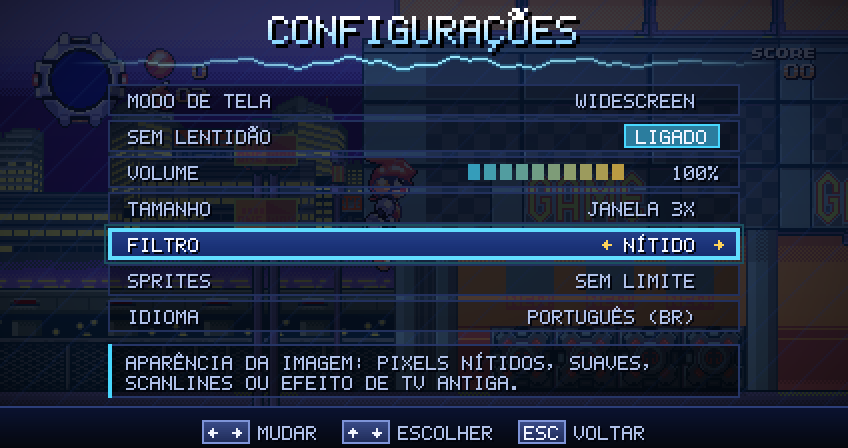
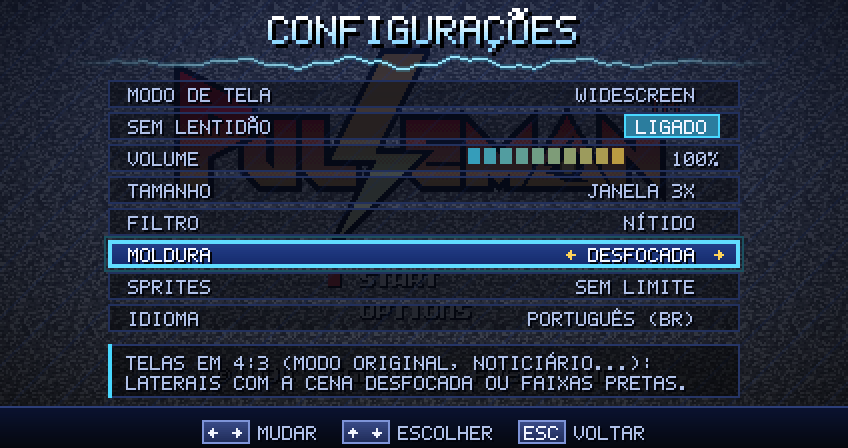
Moldura desfocada nas telas em 4:3
- Telas em 4:3 ganham laterais com a própria cena ampliada, desfocada e escurecida:
  cutscenes ($28, $30), telas fora de fase com as colunas extras de uma cor só
  (mapa-múndi, seleção de fases, opções, abertura) e o modo original inteiro
  (424 px com os 320 px do original no meio)
- Menu MOLDURA (desfocada/preta, moldura_preta no .ini); preta mantém o
  comportamento anterior
- Instalador 1.3

diff --git a/runtime/menu.c b/runtime/menu.c
@@ -15,9 +15,9 @@
 /* Widescreen é o padrão; o modo original (320 px) fica no menu. O lockstep compara com o
  * jogo original, então lá o padrão é o modo original. */
 #ifdef PM_LOCKSTEP
-Settings settings = {0, 1, 10, 1, 0, 1, LANG_PT};
+Settings settings = {0, 1, 10, 1, 0, 1, LANG_PT, 0};
 #else
-Settings settings = {1, 1, 10, 1, 0, 1, LANG_PT};
+Settings settings = {1, 1, 10, 1, 0, 1, LANG_PT, 0};
 #endif
 
 /* ---------- configurações ---------- */
@@ -51,6 +51,7 @@ int settings_load(const char *path)
         else if (!strcmp(key, "filtro")) settings.filter = clampi(v, 0, FILTER_COUNT - 1);
         else if (!strcmp(key, "sprites_sem_limite")) settings.no_sprite_limit = !!v;
         else if (!strcmp(key, "idioma")) settings.language = clampi(v, 0, LANG_COUNT - 1);
+        else if (!strcmp(key, "moldura_preta")) settings.black_border = !!v;
     }
     return 1;
 }
@@ -71,9 +72,11 @@ int settings_save(const char *path)
         "# 1 = sem o limite de 20 sprites por linha (menos sprites piscando/sumindo)\n"
         "sprites_sem_limite = %d\n"
         "# idioma dos menus: 0 = português, 1 = english, 2 = español\n"
-        "idioma = %d\n",
+        "idioma = %d\n"
+        "# telas em 4:3 no widescreen: 0 = moldura desfocada, 1 = faixas pretas\n"
+        "moldura_preta = %d\n",
         !settings.widescreen, settings.no_slowdown, settings.volume, settings.display,
-        settings.filter, settings.no_sprite_limit, settings.language);
+        settings.filter, settings.no_sprite_limit, settings.language, settings.black_border);
     SDL_RWops *f = SDL_RWFromFile(path, "wb");
     if (!f)
         return 0;
@@ -253,7 +256,7 @@ static void fill(int x, int y, int w, int h, uint32_t color)
 /* Página principal (pausa, ou OPTIONS no título) */
 enum { IT_CONTINUE, IT_GAME_OPTIONS, IT_SAVE, IT_LOAD, IT_SETTINGS, IT_RESET, IT_QUIT, IT_COUNT };
 /* Página "Configurações" */
-enum { SET_WIDE, SET_SLOW, SET_VOLUME, SET_DISPLAY, SET_FILTER, SET_SPRITES, SET_LANGUAGE, SET_COUNT };
+enum { SET_WIDE, SET_SLOW, SET_VOLUME, SET_DISPLAY, SET_FILTER, SET_BORDER, SET_SPRITES, SET_LANGUAGE, SET_COUNT };
 
 /* Texto no idioma escolhido: T("português", "english", "español") */
 #define T(pt, en, es) (settings.language == LANG_EN ? (en) : settings.language == LANG_ES ? (es) : (pt))
@@ -480,6 +483,7 @@ static const char *set_label(int i)
     case SET_VOLUME: return T("VOLUME", "VOLUME", "VOLUMEN");
     case SET_DISPLAY: return T("TAMANHO", "SIZE", "TAMAÑO");
     case SET_FILTER: return T("FILTRO", "FILTER", "FILTRO");
+    case SET_BORDER: return T("MOLDURA", "BORDER", "MARCO");
     case SET_SPRITES: return "SPRITES";
     default: return T("IDIOMA", "LANGUAGE", "IDIOMA");
     }
@@ -505,6 +509,10 @@ static const char *set_help(int i)
         return T("APARÊNCIA DA IMAGEM: PIXELS NÍTIDOS, SUAVES, SCANLINES OU EFEITO DE TV ANTIGA.",
                  "IMAGE LOOK: SHARP OR SMOOTH PIXELS, SCANLINES OR AN OLD TV EFFECT.",
                  "ASPECTO DE LA IMAGEN: PÍXELES NÍTIDOS, SUAVES, SCANLINES O EFECTO DE TV ANTIGUA.");
+    case SET_BORDER:
+        return T("TELAS EM 4:3 (MODO ORIGINAL, NOTICIÁRIO...): LATERAIS COM A CENA DESFOCADA OU FAIXAS PRETAS.",
+                 "4:3 SCREENS (ORIGINAL MODE, THE NEWS...): SIDES WITH THE SCENE BLURRED OR BLACK BARS.",
+                 "PANTALLAS EN 4:3 (MODO ORIGINAL, NOTICIERO...): LATERALES CON LA ESCENA DIFUMINADA O FRANJAS NEGRAS.");
     case SET_SPRITES:
         return T("SEM LIMITE EVITA QUE OS SPRITES PISQUEM OU SUMAM QUANDO HÁ MUITOS NA MESMA LINHA.",
                  "NO LIMIT KEEPS SPRITES FROM FLICKERING OR VANISHING WHEN MANY SHARE A LINE.",
@@ -544,6 +552,7 @@ static const char *set_value(int i)
         return settings.display == 0 ? T("JANELA 2X", "WINDOW 2X", "VENTANA 2X") :
                settings.display == 1 ? T("JANELA 3X", "WINDOW 3X", "VENTANA 3X") : T("JANELA 4X", "WINDOW 4X", "VENTANA 4X");
     case SET_FILTER: return filter_label(settings.filter);
+    case SET_BORDER: return settings.black_border ? T("PRETA", "BLACK", "NEGRO") : T("DESFOCADA", "BLURRED", "DIFUMINADO");
     case SET_SPRITES: return settings.no_sprite_limit ? T("SEM LIMITE", "NO LIMIT", "SIN LÍMITE") : "ORIGINAL";
     case SET_LANGUAGE: {   /* cada idioma com o próprio nome */
         static const char *names[LANG_COUNT] = {"PORTUGUÊS (BR)", "ENGLISH", "ESPAÑOL"};
@@ -567,6 +576,7 @@ static int change(int i, int dir)
     }
     case SET_DISPLAY: settings.display = (settings.display + dir + 4) % 4; return 1;
     case SET_FILTER: settings.filter = (settings.filter + dir + FILTER_COUNT) % FILTER_COUNT; return 1;
+    case SET_BORDER: settings.black_border = !settings.black_border; return 1;
     case SET_SPRITES: settings.no_sprite_limit = !settings.no_sprite_limit; return 1;
     case SET_LANGUAGE: settings.language = (settings.language + dir + LANG_COUNT) % LANG_COUNT; return 1;
     default: return 0;
@@ -1176,18 +1186,18 @@ static void render_settings(int w)
     draw_title((w - text_width(title) * 2) / 2, 4 - rise, title, 0xFFFFFFFFu, 0xFF8FD8FFu);
     pulse_wave(x0 - 20, LAYOUT_W + 40, 31, FS_CYAN);
 
-    const int y0 = 42, row_h = 18;
+    const int y0 = 40, row_h = 16;   /* 8 itens até a descrição em y = 172 */
     for (int i = 0; i < SET_COUNT; i++) {
         int sel = i == set_cursor && !dialog, y = y0 + i * row_h + rise * (i + 2) / 3;
         if (sel) {
-            gradient_rect(x0, y, LAYOUT_W, 16, 0xFF24408Au, 0xFF13286Au);
-            outline(x0 - 2, y - 2, LAYOUT_W + 4, 20, 1, mix(FS_CYAN, 0xFF000000u, 160));
-            outline(x0, y, LAYOUT_W, 16, 2, mix(FS_CYAN, 0xFFFFFFFFu, pulse() / 2));
+            gradient_rect(x0, y, LAYOUT_W, 14, 0xFF24408Au, 0xFF13286Au);
+            outline(x0 - 2, y - 2, LAYOUT_W + 4, 18, 1, mix(FS_CYAN, 0xFF000000u, 160));
+            outline(x0, y, LAYOUT_W, 14, 2, mix(FS_CYAN, 0xFFFFFFFFu, pulse() / 2));
         } else {
-            blend_rect(x0, y, LAYOUT_W, 16, 0xFF000000u, 100);
-            outline(x0, y, LAYOUT_W, 16, 1, mix(FS_EDGE, 0xFF000000u, 60));
+            blend_rect(x0, y, LAYOUT_W, 14, 0xFF000000u, 100);
+            outline(x0, y, LAYOUT_W, 14, 1, mix(FS_EDGE, 0xFF000000u, 60));
         }
-        draw_text_shadow(x0 + 10, y + 3, set_label(i), sel ? FS_TEXT : FS_SOFT);
+        draw_text_shadow(x0 + 10, y + 2, set_label(i), sel ? FS_TEXT : FS_SOFT);
 
         int right = x0 + LAYOUT_W - 10;
         int nudge = sel && (anim / 10) % 2;
@@ -1197,16 +1207,16 @@ static void render_settings(int w)
                 snprintf(v, sizeof(v), "%d%%", settings.volume * 10);
             else
                 snprintf(v, sizeof(v), "%s", T("MUDO", "MUTE", "SILENCIO"));
-            draw_text_shadow(right - text_width(v), y + 3, v, sel ? FS_TEXT : FS_SOFT);
+            draw_text_shadow(right - text_width(v), y + 2, v, sel ? FS_TEXT : FS_SOFT);
             int bx = right - 36 - 10 - 10 * 8;   /* < barra > 100% */
             for (int s = 0; s < 10; s++) {
                 int on = s < settings.volume;
                 uint32_t c = on ? mix(FS_CYAN, FS_GOLD, s * 256 / 9) : 0xFF1A2448u;
-                fill(bx + s * 8, y + 4, 6, 8, sel || !on ? c : mix(c, 0xFF000000u, 70));
+                fill(bx + s * 8, y + 2, 6, 8, sel || !on ? c : mix(c, 0xFF000000u, 70));
             }
             if (sel) {
-                draw_text(bx - 10 - nudge, y + 3, "\x03", FS_GOLD);
-                draw_text(bx + 10 * 8 + 2 + nudge, y + 3, "\x04", FS_GOLD);
+                draw_text(bx - 10 - nudge, y + 2, "\x03", FS_GOLD);
+                draw_text(bx + 10 * 8 + 2 + nudge, y + 2, "\x04", FS_GOLD);
             }
             continue;
         }
@@ -1215,15 +1225,15 @@ static void render_settings(int w)
         if (set_is_toggle(i)) {   /* chave: LIGADO aceso, DESLIGADO apagado */
             int on = settings.no_slowdown;
             int pw2 = vw + 12, pxx = right - pw2;
-            fill(pxx, y + 2, pw2, 12, on ? mix(FS_CYAN, 0xFF0A1530u, 120) : 0xFF141C38u);
-            outline(pxx, y + 2, pw2, 12, 1, on ? FS_CYAN : FS_EDGE);
-            draw_text(pxx + 6, y + 3, v, on ? FS_TEXT : FS_DIM);
+            fill(pxx, y + 1, pw2, 12, on ? mix(FS_CYAN, 0xFF0A1530u, 120) : 0xFF141C38u);
+            outline(pxx, y + 1, pw2, 12, 1, on ? FS_CYAN : FS_EDGE);
+            draw_text(pxx + 6, y + 2, v, on ? FS_TEXT : FS_DIM);
             continue;
         }
-        draw_text_shadow(right - 12 - vw, y + 3, v, sel ? FS_TEXT : FS_SOFT);
+        draw_text_shadow(right - 12 - vw, y + 2, v, sel ? FS_TEXT : FS_SOFT);
         if (sel) {
-            draw_text(right - 12 - vw - 10 - nudge, y + 3, "\x03", FS_GOLD);
-            draw_text(right - 4 + nudge, y + 3, "\x04", FS_GOLD);
+            draw_text(right - 12 - vw - 10 - nudge, y + 2, "\x03", FS_GOLD);
+            draw_text(right - 4 + nudge, y + 2, "\x04", FS_GOLD);
         }
     }
 

diff --git a/runtime/border.c b/runtime/border.c
@@ -1,0 +1,105 @@
+/* Moldura desfocada das telas em 4:3 (ver border.h).
+ *
+ * A imagem do meio (320 px) é reduzida a uma grade de blocos de 8x8 px, desfocada com
+ * duas passadas de média 3x3 e ampliada de novo (bilinear) com zoom, como se a cena
+ * continuasse por trás das laterais. A grade é suavizada entre quadros para a estática
+ * e as trocas de imagem não piscarem na moldura. Só muda o que é mostrado: a emulação,
+ * os jogos salvos e o lockstep não passam por aqui. */
+#include <string.h>
+
+#include "border.h"
+
+#define CELL 8
+#define GW (SCREEN_W_MAX / CELL)
+#define GH (SCREEN_H / CELL)
+#define ZOOM 1.5f      /* a cena por trás aparece maior que a imagem do meio */
+#define DARK 0.42f     /* brilho da moldura */
+#define SHADOW 12      /* px de sombra junto da imagem */
+
+static float grid[GH][GW][3];
+static int have_grid;
+
+void border_reset(void)
+{
+    have_grid = 0;
+}
+
+static void blur(float (*g)[GW][3], int gw, int gh)
+{
+    static float tmp[GH][GW][3];
+    for (int y = 0; y < gh; y++)
+        for (int x = 0; x < gw; x++)
+            for (int c = 0; c < 3; c++) {
+                float s = 0;
+                int n = 0;
+                for (int dy = -1; dy <= 1; dy++)
+                    for (int dx = -1; dx <= 1; dx++) {
+                        int yy = y + dy, xx = x + dx;
+                        if (yy < 0 || yy >= gh || xx < 0 || xx >= gw)
+                            continue;
+                        s += g[yy][xx][c];
+                        n++;
+                    }
+                tmp[y][x][c] = s / n;
+            }
+    memcpy(g, tmp, sizeof(tmp));
+}
+
+void border_draw(uint32_t (*fb)[SCREEN_W_MAX], int width, int extra)
+{
+    int inner = width - 2 * extra;   /* 320 */
+    int gw = inner / CELL, gh = SCREEN_H / CELL;
+    static float cur[GH][GW][3];
+    for (int gy = 0; gy < gh; gy++)
+        for (int gx = 0; gx < gw; gx++) {
+            uint32_t r = 0, g = 0, b = 0;
+            for (int y = gy * CELL; y < gy * CELL + CELL; y++)
+                for (int x = extra + gx * CELL; x < extra + gx * CELL + CELL; x++) {
+                    uint32_t p = fb[y][x];
+                    r += p >> 16 & 0xFF;
+                    g += p >> 8 & 0xFF;
+                    b += p & 0xFF;
+                }
+            cur[gy][gx][0] = r / (float)(CELL * CELL);
+            cur[gy][gx][1] = g / (float)(CELL * CELL);
+            cur[gy][gx][2] = b / (float)(CELL * CELL);
+        }
+    blur(cur, gw, gh);
+    blur(cur, gw, gh);
+    float keep = have_grid ? 0.75f : 0.0f;
+    for (int gy = 0; gy < gh; gy++)
+        for (int gx = 0; gx < gw; gx++)
+            for (int c = 0; c < 3; c++)
+                grid[gy][gx][c] = grid[gy][gx][c] * keep + cur[gy][gx][c] * (1 - keep);
+    have_grid = 1;
+
+    for (int y = 0; y < SCREEN_H; y++) {
+        /* posição na imagem do meio, em blocos (centro do bloco = .5) */
+        float sy = ((SCREEN_H / 2) + (y + 0.5f - SCREEN_H / 2) / ZOOM) / CELL - 0.5f;
+        if (sy < 0) sy = 0;
+        if (sy > gh - 1) sy = (float)(gh - 1);
+        int y0 = (int)sy, y1 = y0 + 1 < gh ? y0 + 1 : y0;
+        float fy = sy - y0;
+        for (int side = 0; side < 2; side++)
+            for (int i = 0; i < extra; i++) {
+                int x = side ? width - extra + i : i;
+                int dist = side ? i + 1 : extra - i;   /* distância até a imagem */
+                float sx = (inner / 2 + (x + 0.5f - width / 2.0f) / ZOOM) / CELL - 0.5f;
+                if (sx < 0) sx = 0;
+                if (sx > gw - 1) sx = (float)(gw - 1);
+                int x0 = (int)sx, x1 = x0 + 1 < gw ? x0 + 1 : x0;
+                float fx = sx - x0;
+                float k = DARK;
+                if (dist <= SHADOW)
+                    k *= 0.45f + 0.55f * dist / SHADOW;
+                uint32_t out = 0xFF000000u;
+                for (int c = 0; c < 3; c++) {
+                    float top = grid[y0][x0][c] + (grid[y0][x1][c] - grid[y0][x0][c]) * fx;
+                    float bot = grid[y1][x0][c] + (grid[y1][x1][c] - grid[y1][x0][c]) * fx;
+                    int v = (int)((top + (bot - top) * fy) * k + 0.5f);
+                    out |= (uint32_t)(v > 255 ? 255 : v) << (16 - 8 * c);
+                }
+                fb[y][x] = out;
+            }
+    }
+}

diff --git a/runtime/main.c b/runtime/main.c
@@ -21,6 +21,7 @@
 #include "filters.h"
 #include "savestate.h"
 #include "intro_logos.h"
+#include "border.h"
 #ifdef PM_DIST
 #include "dist.h"
 #endif
@@ -107,15 +108,35 @@ static uint32_t title_options_filter(uint32_t pad)
     return pad & ~PAD_START;
 }
 
-/* Liga/desliga o widescreen com o jogo rodando */
+/* Liga/desliga o widescreen com o jogo rodando. No modo original com a moldura desfocada
+ * a tela também tem 424 px, mas sempre com faixas (os 320 px do meio são os do original)
+ * e nenhum ajuste de widescreen no jogo; com a moldura preta fica em 320 px. */
 static void set_widescreen(int on)
 {
     widescreen_enabled = on;
-    vdp_set_widescreen(on ? 52 : 0);   /* 320 + 2*52 = 424 px, ~16:9 */
+#ifdef PM_LOCKSTEP
+    int framed = 0;
+#else
+    int framed = !on && !settings.black_border;
+#endif
+    vdp_set_widescreen(on || framed ? 52 : 0);   /* 320 + 2*52 = 424 px, ~16:9 */
     if (!on) {
-        wide_pillarbox = wide_clip_planes = 0;
+        wide_pillarbox = framed;
+        wide_clip_planes = 0;
         map_stream_extra = hud_shift = hud_shift_right = wide_sprite_extra = 0;
     }
+}
+
+/* Fora das fases, tela cujas colunas extras saíram de uma cor só (mapa-múndi, opções, o
+ * texto da abertura): o conteúdo cabe nos 320 px do meio, é uma tela em 4:3 */
+static int sides_empty(void)
+{
+    uint32_t c = framebuffer[0][0];
+    for (int y = 0; y < SCREEN_H; y++)
+        for (int i = 0; i < wide_extra; i++)
+            if (framebuffer[y][i] != c || framebuffer[y][screen_width - 1 - i] != c)
+                return 0;
+    return 1;
 }
 
 /* Reinicia o console, como o botão de reset: CPU, vídeo, som e memória */
@@ -144,6 +165,13 @@ static void run_frame(void)
         sound_run_line(line);
     }
     sound_end_frame();
+    /* telas em 4:3 (cutscenes, modo original, telas com as laterais vazias): moldura
+     * desfocada no lugar das faixas */
+    int framed = wide_extra && (wide_pillarbox || (!game_in_stage() && sides_empty()));
+    if (framed && !settings.black_border)
+        border_draw(framebuffer, screen_width, wide_extra);
+    else
+        border_reset();
 }
 
 static uint32_t menu_fb[SCREEN_H][SCREEN_W_MAX];
@@ -284,8 +312,10 @@ static uint32_t keyboard_buttons(void)
 /* Aplica as configurações do menu à janela, ao vídeo, à CPU e ao som */
 static void apply_settings(SDL_Window *win, SDL_Texture *tex)
 {
-    if (settings.widescreen != widescreen_enabled)
-        set_widescreen(settings.widescreen);
+    static int black_border = -1;
+    if (settings.widescreen != widescreen_enabled || settings.black_border != black_border)
+        set_widescreen(settings.widescreen);   /* a moldura muda a largura no modo original */
+    black_border = settings.black_border;
     cpu_overclock = settings.no_slowdown ? 8 : 1;
     sprite_unlimited = settings.no_sprite_limit;
     sound_set_volume(settings.volume * 10);

diff --git a/runtime/border.h b/runtime/border.h
@@ -1,0 +1,15 @@
+/* Moldura das telas em 4:3 no widescreen (menu MOLDURA): em vez das faixas pretas, as
+ * laterais mostram a própria cena ampliada, desfocada e escurecida. */
+#ifndef PM_BORDER_H
+#define PM_BORDER_H
+
+#include "runtime.h"
+
+/* Desenha a moldura nas colunas 0..extra-1 e width-extra..width-1 do quadro, a partir da
+ * imagem do meio. Chamada a cada quadro em que a tela está com faixas. */
+void border_draw(uint32_t (*fb)[SCREEN_W_MAX], int width, int extra);
+
+/* A tela saiu do formato com faixas: a próxima moldura começa sem herdar a anterior */
+void border_reset(void);
+
+#endif

diff --git a/runtime/menu.h b/runtime/menu.h
@@ -13,6 +13,7 @@ typedef struct {
     int filter;       /* FILTER_* (filters.h): nítido, suave, pixel suave, scanlines, TV... */
     int no_sprite_limit; /* 0/1: sem o limite de sprites por linha do VDP */
     int language;     /* LANG_*: idioma dos menus do runtime */
+    int black_border; /* 0/1: telas em 4:3 com faixas pretas em vez da moldura desfocada */
 } Settings;
 
 enum { LANG_PT, LANG_EN, LANG_ES, LANG_COUNT };

diff --git a/docs/TECNICO.md b/docs/TECNICO.md
@@ -91,7 +91,8 @@ apagado por baixo, onda elétrica sob o título, barra de comandos no rodapé):
 - Principal: Continuar, Salvar jogo, Carregar jogo, Configurações, Reiniciar e Sair, com
   um painel que explica o item escolhido e, numa fase, mostra vidas e pontos.
 - Configurações: Modo de tela (widescreen/original), Sem lentidão, Volume (barra), Tamanho
-  (janela 2x/3x/4x ou tela cheia), Filtro (ver abaixo), Sprites (sem limite/original) e Idioma,
+  (janela 2x/3x/4x ou tela cheia), Filtro (ver abaixo), Moldura (desfocada/preta), Sprites (sem limite/original)
+  e Idioma,
   com ← → para mudar e uma descrição de cada opção. Idioma: português (BR), inglês ou
   espanhol (só os menus do runtime; `idioma` no .ini, `--lang 0|1|2` na linha de comando).
 - Salvar/Carregar: os mesmos cartões de arquivo da seleção de jogo.
@@ -209,6 +210,14 @@ por padrão, já que compara com o jogo original.
 - Cutscenes montadas para 320 px ficam no formato original, com faixas pretas
   (`update_widescreen_for_scene` em `main.c`): a abertura da fase (cena $28, o símbolo do
   vilão e as setas que entram pelas bordas) e o noticiário com a jornalista ($30).
+- Moldura (menu MOLDURA, `moldura_preta` no .ini): toda tela em 4:3 ganha laterais. São as
+  cenas acima, as telas fora de fase cujas colunas extras saem de uma cor só (mapa-múndi,
+  seleção de fases, opções, texto da abertura; `sides_empty` em `main.c`) e o modo original
+  inteiro, que com a moldura desfocada também sai em 424 px, sempre com faixas e sem nenhum
+  ajuste de widescreen (os 320 px do meio são idênticos aos do modo original em 320 px; com
+  a moldura preta ele volta a 320 px). Por padrão as laterais mostram a própria cena ampliada
+  1,5x, desfocada (blocos de 8 px, duas médias 3x3, bilinear) e escurecida, com sombra junto
+  da imagem e suavizada entre quadros (`runtime/border.c`); só muda o que é mostrado.
   `PM_DEBUG_SCENE=1` mostra as trocas de cena; `PM_DEBUG_SCENE=quadro,cena` força uma cena
   (ex.: `340,30` logo depois do título).
 - Pendências: nas bordas da fase a câmera não limita a área extra; ligar o widescreen no

diff --git a/README.md b/README.md
@@ -96,6 +96,7 @@ O instalador não pede administrador (instala em `%LOCALAPPDATA%\Programs\Pulsem
 | ⚡ **60 fps, sem lentidão** | Um quadro por atualização do monitor e o 68000 acelerado para acabar com a lentidão do original. |
 | 💾 **3 arquivos de save** | Salve e continue de qualquer ponto, com miniatura, data, vidas e pontos. |
 | 📺 **Filtros** | Nítido, suave, pixel suave, scanlines, TV e TV curva. |
+| 🖼 **Moldura** | Telas em 4:3 (o modo original, o noticiário, o mapa-múndi...) ganham laterais com a própria cena desfocada, ou faixas pretas. |
 | 🧩 **Sprites sem limite** | Menos sprites piscando quando há muitos na mesma linha (opcional). |
 | 🌎 **3 idiomas** | Menus em português, inglês e espanhol. |
 | 📦 **Instalador moderno** | Confere a ROM, cria atalhos, registra no Windows e desinstala limpo. |
